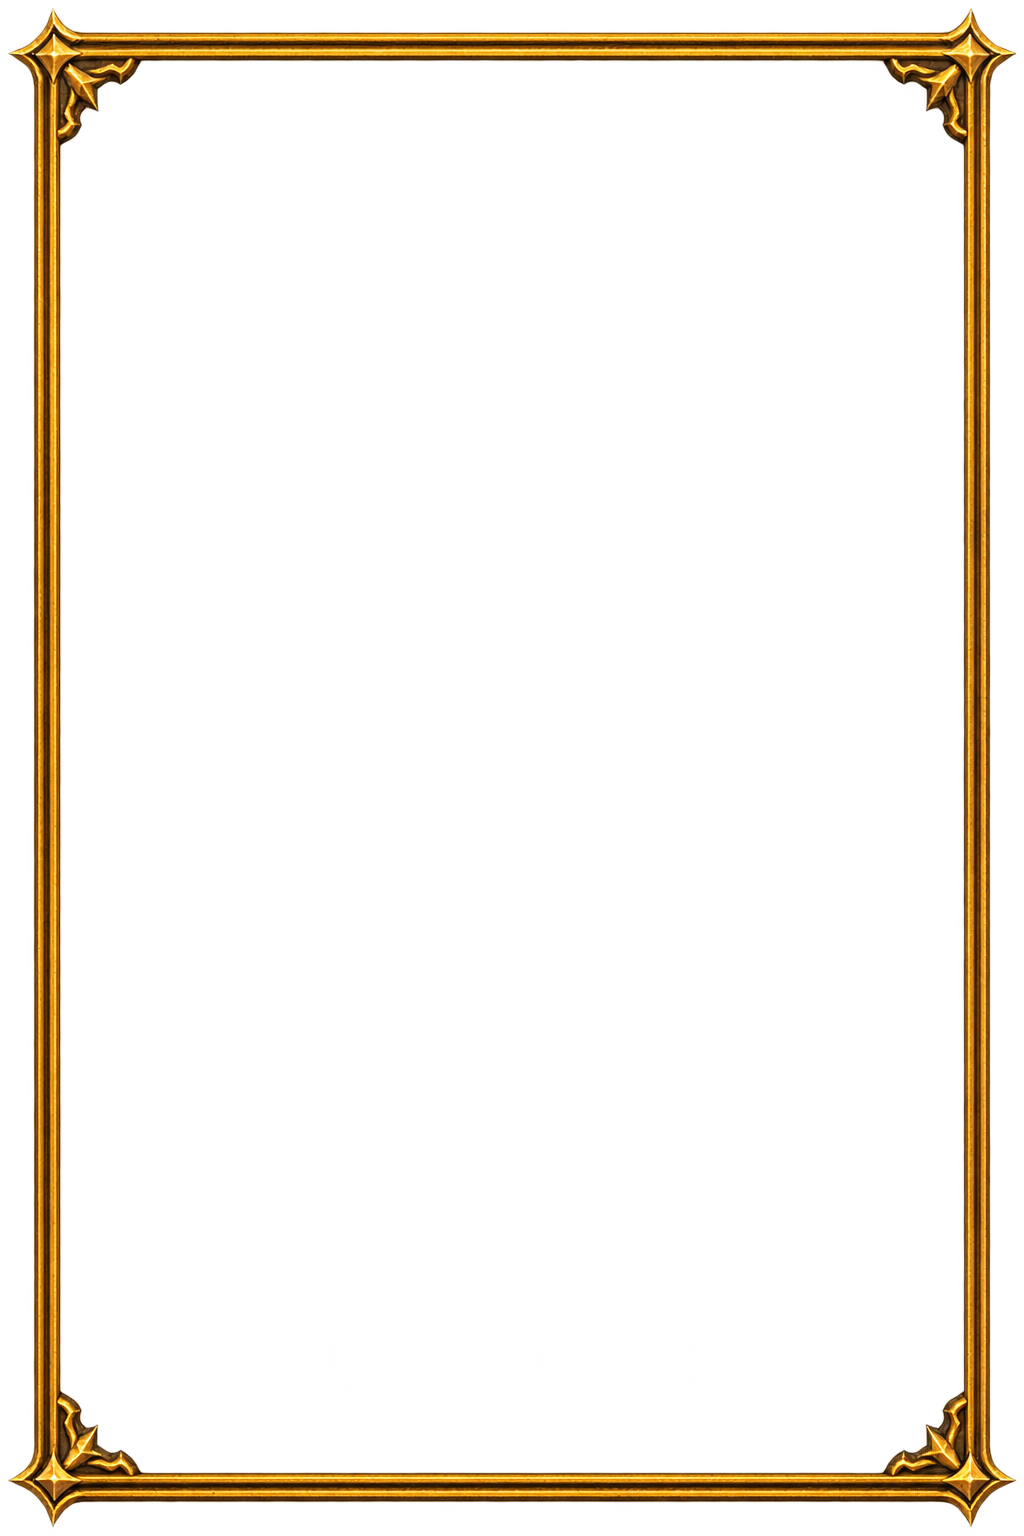
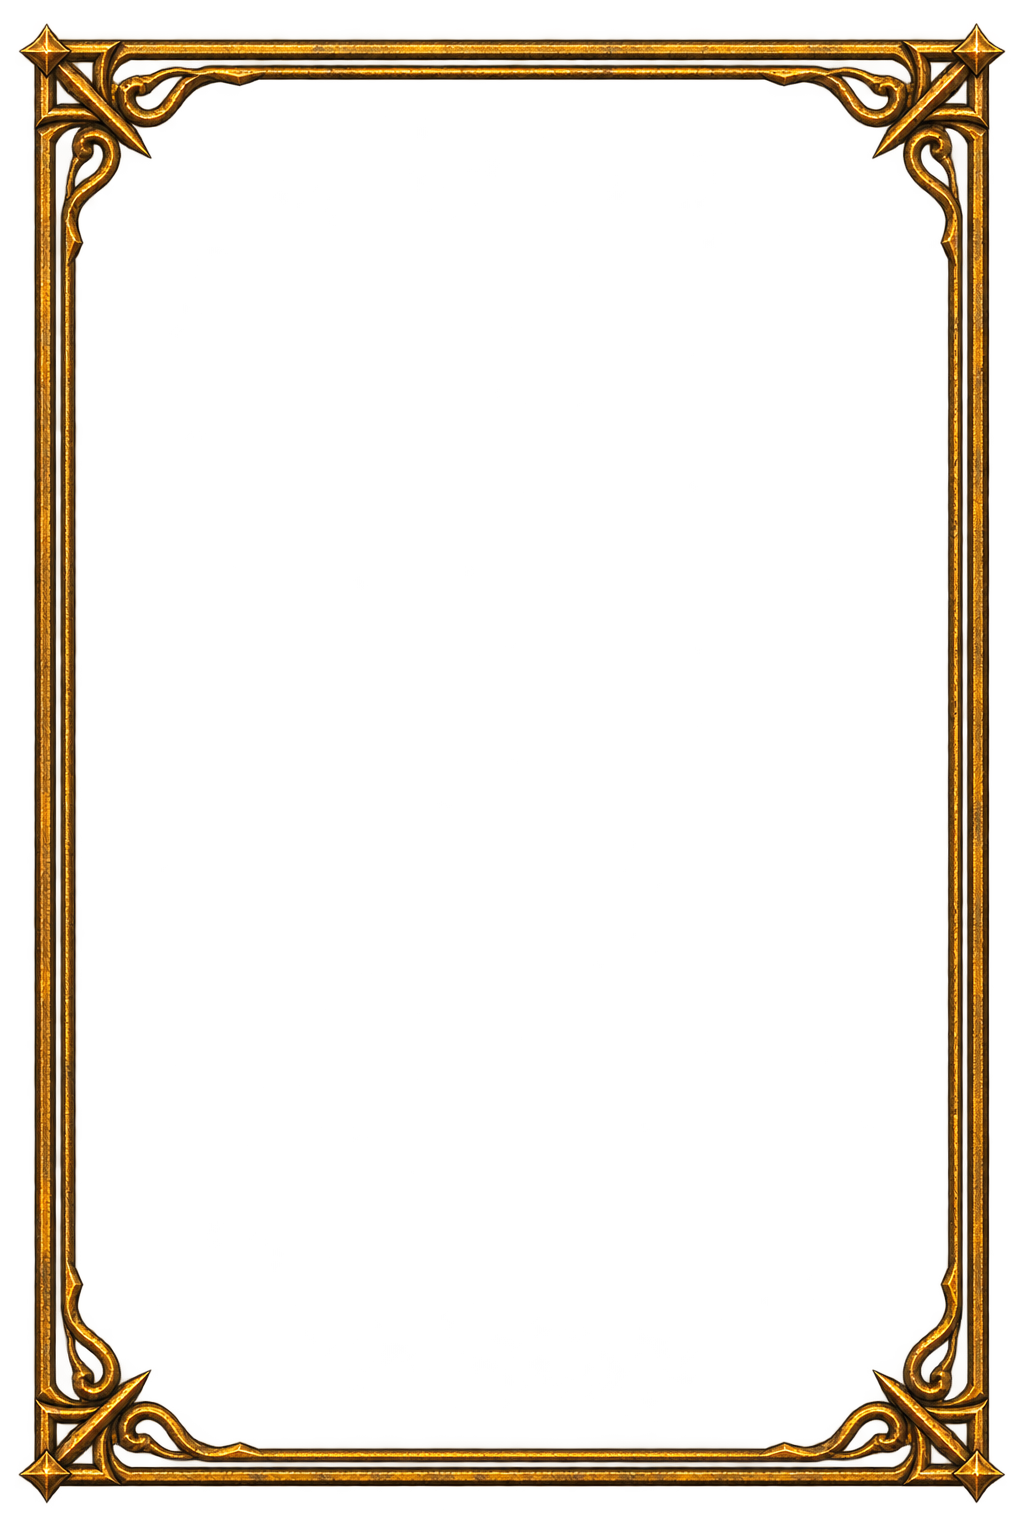
feat(ui): update shell frame assets

Changed region(s): [[0.0, 0.0, 1.0, 1.0]]

diff --git a/src/app/index.css b/src/app/index.css
@@ -125,13 +125,11 @@
 
 /*
  * Vollhöhen-Rahmen für Sidebar und Main-Area. Die generierten Assets sind
- * 1024×1536; 160 px halten die vier Eckornamente vollständig in den
- * Corner-Slices. Das Pseudoelement vermeidet, dass die 32 px Border den
- * Inhalt verengt. Der Rahmen bleibt ohne Outset vollständig innerhalb der
- * jeweiligen Fläche, damit an der Naht zwischen Sidebar und Main-Area beide
- * Goldlinien sichtbar bleiben. Das Padding hält Flächenhintergründe, Screens
- * und Scrollbalken innerhalb der Goldlinie: Die 12 px entsprechen der
- * Band-Innenkante (~59 px vom Asset-Rand, Skalierung 32/160).
+ * 1024×1536; 275 px enthalten die nach innen reichenden Eckornamente
+ * vollständig. Das Pseudoelement vermeidet, dass die 40 px Border den Inhalt
+ * verengt. Das Outset lässt den Rahmen oben und unten 4 px sowie links und
+ * rechts 3 px über die jeweilige Fläche ragen. Das 12-px-Padding hält
+ * Flächenhintergründe und Scrollbalken innerhalb der durchgehenden Goldlinie.
  */
 @utility border-image-sidebar {
   position: relative;
@@ -149,16 +147,12 @@
   z-index: 20;
   inset: 0;
   border-style: solid;
-  border-width: 32px;
-  border-image: url('/assets/frames/sidebar-ornate.png') 160 / 32px round;
-  border-image-outset: 0;
-  opacity: 0.7;
+  border-width: 40px;
+  border-image: url('/assets/frames/mainview-ornate.png') 275 / 40px round;
+  border-image-outset: 4px 3px;
+  opacity: 0.8;
   pointer-events: none;
   content: '';
-}
-
-.border-image-mainview::before {
-  border-image-source: url('/assets/frames/mainview-ornate.png');
 }
 
 html {

diff --git a/src/app/ui/ResourceDock.tsx b/src/app/ui/ResourceDock.tsx
@@ -18,7 +18,7 @@ export function ResourceDock() {
   return (
     <dl
       aria-label="Resources"
-      className="absolute right-4 top-4 z-10 flex flex-wrap justify-end gap-2 lg:right-6 lg:top-6"
+      className="absolute right-10 top-10 z-10 flex flex-wrap justify-end gap-2"
     >
       <ResourceChip icon={Coins} label="Gold" value={currencies?.gold} />
       <ResourceChip icon={Gem} label="Crystals" value={currencies?.crystals} tone="info" />

diff --git a/public/assets/MANIFEST.md b/public/assets/MANIFEST.md
@@ -21,15 +21,14 @@
 
 ## Rahmen
 
-| Datei                                                            | Quelle                                                                             | Autor       | Lizenz        | Bearbeitung                                                           |
-| ---------------------------------------------------------------- | ---------------------------------------------------------------------------------- | ----------- | ------------- | --------------------------------------------------------------------- |
-| [frames/panel-ornate.png](frames/panel-ornate.png)               | KI-generiert, Prompt: [concept/PROMPTS.md §5](../../concept/PROMPTS.md)            | Timo Sudeck | projektintern | Auf die Ornament-Bounding-Box zugeschnitten (1137×987, 9-Slice-Basis) |
-| [frames/panel-thin.png](frames/panel-thin.png)                   | KI-generiert (ChatGPT), Prompt: [concept/PROMPTS.md §7](../../concept/PROMPTS.md)  | Timo Sudeck | projektintern | —                                                                     |
-| [frames/button-ornate.png](frames/button-ornate.png)             | KI-generiert (ChatGPT), Prompt: [concept/PROMPTS.md §9](../../concept/PROMPTS.md)  | Timo Sudeck | projektintern | —                                                                     |
-| [frames/slot-ornate.png](frames/slot-ornate.png)                 | KI-generiert (ChatGPT), Prompt: [concept/PROMPTS.md §11](../../concept/PROMPTS.md) | Timo Sudeck | projektintern | —                                                                     |
-| [frames/sidebar-ornate.png](frames/sidebar-ornate.png)           | KI-generiert, Prompt-Basis: [concept/PROMPTS.md §15](../../concept/PROMPTS.md)     | Timo Sudeck | projektintern | Prompt mehrfach iteriert; 1024×1536, als 9-Slice-Basis verwendet      |
-| [frames/mainview-ornate.png](frames/mainview-ornate.png)         | Kopie von [frames/sidebar-ornate.png](frames/sidebar-ornate.png)                   | Timo Sudeck | projektintern | Eigene Datei, damit die Main-Area-Variante unabhängig iterierbar ist  |
-| [frames/mainview-ornate-alt.png](frames/mainview-ornate-alt.png) | KI-generiert, Prompt: [concept/PROMPTS.md §16](../../concept/PROMPTS.md)           | Timo Sudeck | projektintern | 1024×1536; alternative Variante zu frames/mainview-ornate.png         |
+| Datei                                                      | Quelle                                                                             | Autor       | Lizenz        | Bearbeitung                                                           |
+| ---------------------------------------------------------- | ---------------------------------------------------------------------------------- | ----------- | ------------- | --------------------------------------------------------------------- |
+| [frames/panel-ornate.png](frames/panel-ornate.png)         | KI-generiert, Prompt: [concept/PROMPTS.md §5](../../concept/PROMPTS.md)            | Timo Sudeck | projektintern | Auf die Ornament-Bounding-Box zugeschnitten (1137×987, 9-Slice-Basis) |
+| [frames/panel-thin.png](frames/panel-thin.png)             | KI-generiert (ChatGPT), Prompt: [concept/PROMPTS.md §7](../../concept/PROMPTS.md)  | Timo Sudeck | projektintern | —                                                                     |
+| [frames/button-ornate.png](frames/button-ornate.png)       | KI-generiert (ChatGPT), Prompt: [concept/PROMPTS.md §9](../../concept/PROMPTS.md)  | Timo Sudeck | projektintern | —                                                                     |
+| [frames/slot-ornate.png](frames/slot-ornate.png)           | KI-generiert (ChatGPT), Prompt: [concept/PROMPTS.md §11](../../concept/PROMPTS.md) | Timo Sudeck | projektintern | —                                                                     |
+| [frames/panel-ornate-alt.png](frames/panel-ornate-alt.png) | KI-generiert, Prompt-Basis: [concept/PROMPTS.md §15](../../concept/PROMPTS.md)     | Timo Sudeck | projektintern | Prompt mehrfach iteriert; 1024×1536, alternative Panel-Variante       |
+| [frames/mainview-ornate.png](frames/mainview-ornate.png)   | KI-generiert, Prompt: [concept/PROMPTS.md §16](../../concept/PROMPTS.md)           | Timo Sudeck | projektintern | 1024×1536; gemeinsamer Rahmen für Sidebar und Main-Area               |
 
 ## Ornamente
 

diff --git a/concept/PROMPTS.md b/concept/PROMPTS.md
@@ -345,12 +345,12 @@ image stays readable when cropped to a small wide card; the center-bottom area s
 calm so UI panels and characters can sit on top.
 ```
 
-## 15. Sidebar-Ornamentrahmen (9-Slice)
+## 15. Alternativer Panel-Ornamentrahmen (9-Slice)
 
-- **Zieldatei:** `public/assets/frames/sidebar-ornate.png`
+- **Zieldatei:** `public/assets/frames/panel-ornate-alt.png`
 - **Format:** quadratisch, mindestens 1024×1024, transparenter Hintergrund und vollständig
   transparentes Zentrum
-- **Technik:** 9-Slice-Rahmen für eine schmale, viewport-hohe Sidebar. Der Slice-Inset liegt bei
+- **Technik:** 9-Slice-Rahmen für eine schmale, viewport-hohe Fläche. Der Slice-Inset liegt bei
   einem Sechstel der Kantenlänge; sämtliche Ornamente bleiben innerhalb dieses äußeren Rings.
   Die geraden Kantenstücke müssen nahtlos wiederholbar sein (`border-image-repeat: round`),
   damit der Rahmen ohne Verzerrung auf unterschiedliche Menübreiten und Viewport-Höhen skaliert.
@@ -358,17 +358,17 @@ calm so UI panels and characters can sit on top.
   oben rechts nach links unten, unten links nach rechts oben und unten rechts nach links oben.
 
 ```text
-Ornamental four-sided frame for a full-height dark fantasy game UI sidebar, designed
+Ornamental four-sided frame for a full-height dark fantasy game UI panel, designed
 as a square 1:1 nine-slice border asset with a fully transparent background and a
 fully transparent empty center. A very thin double outline of tarnished brass and
 restrained warm gold (#8a6d3b to #fbbf24) forms a tall, narrow rectangular boundary
-around a vertical navigation column. Each corner carries a small elegant imperial
+around a vertical content column. Each corner carries a small elegant imperial
 ornament that grows from the border and points diagonally inward into the empty center:
 the top-left corner points down and right, the top-right corner down and left, the
 bottom-left corner up and right, and the bottom-right corner up and left. Each corner
 combines a short angular spear tip, a tiny diamond-shaped joint, and one restrained
 curl of stone-carved filigree. The result should feel like a delicate architectural
-frame around an ancient palace menu: noble, precise, slightly weathered, and clearly
+frame around an ancient palace panel: noble, precise, slightly weathered, and clearly
 visible against a deep blue-black background, but much lighter and narrower than an
 ornate content-panel frame.
 
@@ -376,7 +376,7 @@ Strict four-fold symmetry: all corner ornaments are mirrored versions of one des
 and all four edge lines share the same slim weight. Keep every ornament entirely
 inside the outer sixth of the canvas. Between the corners, use only perfectly straight,
 seamlessly repeatable thin double lines so CSS border-image slicing can extend the
-frame to a narrow sidebar of any height without stretching the decorations. Preserve
+frame to a tall, narrow panel of any height without stretching the decorations. Preserve
 clear transparent safety space between the ornament tips and the empty center. Crisp
 vector-like contours, subtle worn-metal texture, minimal warm highlights, no glow
 haze, no dark panel fill, no background, no text, no icons, no medallions, no complete
